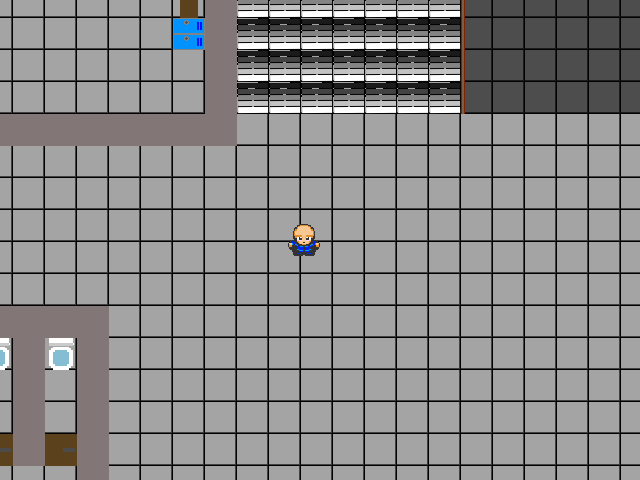
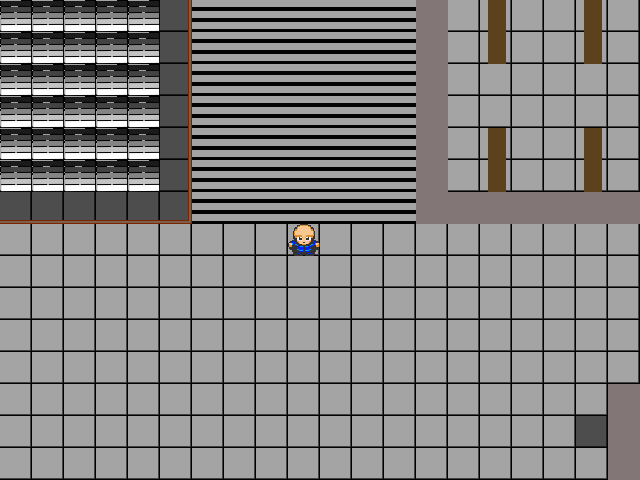
EduPage quest done
wowo iPhone

diff --git a/main.py b/main.py
@@ -45,6 +45,7 @@ class Game:
         self.saved_room_data: str = "017"
         self.quest = Quest(self)
         self.grades: dict[str, int] = {}
+        self.endings: List[str] = []
         
         # Settings
         self.music_on: bool = True
@@ -59,6 +60,10 @@ class Game:
 
         # Npc list
         self.npc = []
+
+        # Sounds
+        self.wow_iphone = pygame.mixer.Sound("sounds/wow_iphone.mp3")
+        # self.theme = pygame.mixer.Sound("sounds/theme.mp3")
         
     def set_level_camera(self, level: List[str]):
         """
@@ -111,7 +116,7 @@ class Game:
         self.interactive = {}
 
         # Inventory
-        self.inv: dict[str, str] = {"light": "img/vtipnicek_small.png", "changing_room key": "img/vtipnicek_small.png"}
+        self.inv: dict[str, str] = {}
 
         # Variables for endings
         self.without_light: int = 0
@@ -126,6 +131,8 @@ class Game:
         self.dumbbell_lifted: bool = True
         self.program_test: bool = True
         self.kul_quest: bool = True
+        self.phone_in_trash: bool = True
+        self.suplovanie: bool = True
         self.locker_stuff: dict[str, bool] = {"crocs": True, "boots": False, "key": True}
 
     def create_tile_map(self):
@@ -216,6 +223,7 @@ class Game:
             # Variables for endings
             self.without_light = data["quests"]["without_light"]
             self.caught = data["quests"]["caught"]
+            self.endings = data["endings"]
 
             # Variables for finding items/doing stuff
             self.key_in_trash = data["quests"]["key_in_trash"]
@@ -227,6 +235,8 @@ class Game:
             self.dumbbell_lifted = data["quests"]["dumbbells"]
             self.program_test = data["quests"]["program"]
             self.kul_quest = data["quests"]['KUL_quest']
+            self.suplovanie = data["quests"]['suplovanie']
+            self.phone_in_trash = data["quests"]["phone"]
             
             # Grades
             self.grades = data['grades']
@@ -393,8 +403,6 @@ class Game:
 
         while open_inventory:
 
-            
-
             # Background
             self.screen.blit(bg, (0, 0))
 
@@ -449,9 +457,10 @@ class Game:
         
         match img:
             
-            case "img/locker key.png": self.info("A key from my locker. It's 10th from the door.", BLACK) # Locker key
-            case "img/changing_room key.png": self.info("This key is used for OUR changing room.", BLACK) # Changing room key
-            case "img/vtipnicek_small.png": self.info("I can read you.", BLACK); self.open_vtipnicek() # Changing room key
+            case "img/locker key.png": self.info("A key from my locker. It's 10th from the door.", WHITE, 90) # Locker key
+            case "img/changing_room key.png": self.info("This key is used for OUR changing room.", WHITE, 90) # Changing room key
+            case "img/vtipnicek_small.png": self.info("I can read you.", WHITE, 90); self.open_vtipnicek() # Changing room key
+            case "img/Iphone_small.png": self.info("Let's check substitution", WHITE, 90); self.suplovanie = self.quest.check_suplovanie() # Changing room key
         
     def open_vtipnicek(self):
         """
@@ -504,14 +513,17 @@ class Game:
                         "dumbbells": self.dumbbell_lifted,
                         "program": self.program_test,
                         "KUL_quest": self.kul_quest,
+                        "phone": self.phone_in_trash,
+                        "suplovanie": self.suplovanie, 
                         "locker_stuff": self.locker_stuff, 
-                        "without_light": self.without_light, 
+                        "without_light": self.without_light,
                         "caught": self.caught
                         }
         
         # Saving
         self.database = SaveProgress(self.player_name, 
                                     self.inv,
+                                    self.endings,
                                     self.quests,
                                     self.rooms.index(self.in_room),
                                     self.saved_room_data,
@@ -545,7 +557,7 @@ class Game:
 
         # Creates button
         restart_button = Button(10, WIN_HEIGHT - 60, 200, 50, WHITE, DARK_GRAY, "Main menu", 32) if end else Button(10, WIN_HEIGHT - 60, 200, 50, WHITE, DARK_GRAY, "Try again", 32)
-        iamdone_button = Button(10, WIN_HEIGHT - 120, 200, 50, WHITE, DARK_GRAY, "I'm done", 32)
+        iamdone_button = Button(10, WIN_HEIGHT - 120, 200, 50, WHITE, DARK_GRAY, "Save & Quit", 32)
 
         if img == "img/window_fail.png": 
             car_oops = pygame.image.load("img/car_oops.png")
@@ -569,11 +581,12 @@ class Game:
 
             if restart_button.is_pressed(mouse_pos, mouse_pressed): 
                 if end: 
+                    self.endings.append(img)
                     self.reseting_game_values()
                     self.intro_screen().new("new").main()
                 else: self.new("old").main()
 
-            elif iamdone_button.is_pressed(mouse_pos, mouse_pressed): self.save_game()
+            elif iamdone_button.is_pressed(mouse_pos, mouse_pressed): self.endings.append(img); self.save_game()
             
             # Displaying background, text, button
             self.screen.blit(self.game_over_background, (0, 0))
@@ -891,7 +904,7 @@ class Game:
         self.update()
         self.draw()
 
-    def info(self, msg_content: str, color: tuple[int, int, int] = WHITE):
+    def info(self, msg_content: str, color: tuple[int, int, int] = WHITE, i: int = 10):
         """
         When character is talking but without the update and draw\n
         Good in some situations
@@ -899,7 +912,7 @@ class Game:
 
         for _ in range(self.talking_speed_number):
             text = self.font.render(msg_content, True, color)
-            text_rect = text.get_rect(x=10, y=10)
+            text_rect = text.get_rect(x=10, y=i)
             self.screen.blit(text, text_rect)
             self.clock.tick(FPS)
             pygame.display.update()
@@ -922,6 +935,20 @@ class Game:
 
             # Empty trashcan
             else: self.talking("There is nothing interesting.")
+
+        # 201 Trash can
+        elif self.interacted[1] == 24 and self.interacted[2] == 43: 
+
+            # Phone in trash
+            if self.phone_in_trash:
+                pygame.mixer.Sound.play(self.wow_iphone)
+                self.talking("Wow, Iphone")
+                self.inv['phone'] = "img/Iphone_small.png"
+                self.phone_in_trash = False
+                pygame.mixer.music.stop()
+
+            # Empty
+            else: self.talking("Just some rubbish.")
             
     def window(self):
         """
@@ -1417,7 +1444,7 @@ class Game:
                 
             elif self.interacted[2] == 57 and self.interacted[1] == 22:
                 self.__kul_counter += 1
-                if self.__kul_counter != 5:
+                if self.__kul_counter != 3:
                     self.talking("Mr. KUL, can I go home early?")
                     self.talking("You think I can manage that?", True)
                     self.talking("I was just thinking...")

diff --git a/quest.py b/quest.py
@@ -98,7 +98,7 @@ class Quest:
             active_tuple = False
 
             # Color
-            color = DIM_GRAY
+            color = GRAY
 
             # To fill
             fill_def = pygame.Rect(91, 90, 24, 13)
@@ -205,14 +205,79 @@ class Quest:
                 # Updates
                 self.game.clock.tick(FPS)
                 pygame.display.update()
-    
-    
-    # def function_to_bully_people(self):
-    #     """
-    #     This function needs your powers to fix it.
-    #     It's part of a class.
-    #     """
+                
+    def check_suplovanie(self):
+        """
+        Player checks for the substitution, very yes
+        """
 
-    #     add_even_to_list = [item for item in range(11) if item % 2 == 0]
-    #     tuple_of_previous = tuple(add_even_to_list)
-    #     return (item + 1 for item in tuple_of_previous)
+        checking = True
+
+        # Screen of the game
+        bg = pygame.image.load("img/screen.png")
+
+        # Phone
+        iphone = pygame.image.load("img/mobile.png")
+
+        # Screens
+        first_screen = pygame.image.load("img/screenshot_first.png")
+        first_rect = first_screen.get_rect(x=WIN_WIDTH // 2 - first_screen.get_width() // 2, y=WIN_HEIGHT // 2 - first_screen.get_height() // 2)
+        second_screen = pygame.image.load("img/screenshot_second.png")
+        second_rect = second_screen.get_rect(x=WIN_WIDTH // 2 - first_screen.get_width() // 2, y=WIN_HEIGHT // 2 - second_screen.get_height() // 2)
+
+        # Button
+        back_button = Button(500, 400, 120, 50, fg=WHITE, bg=BLACK, content="Back", fontsize=32)
+
+        # "Button"
+        empty_rect = pygame.Rect(192, 319, 129, 23)
+        back_rect = pygame.Rect(300, 420, 37, 29)
+
+        main_app = True
+        sub = False
+
+        while checking:
+            
+            # Position and click of the mouse
+            mouse_pos = pygame.mouse.get_pos()
+            mouse_pressed = pygame.mouse.get_pressed()
+            
+            # Events
+            for event in pygame.event.get():
+
+                # Close button
+                if event.type == pygame.QUIT: self.game.exiting()
+
+                # Keyboard
+                elif event.type == pygame.KEYDOWN:
+
+                    # Esc
+                    if event.key == pygame.K_ESCAPE: checking = False
+
+                # Mouse
+                elif event.type == pygame.MOUSEBUTTONDOWN:
+
+                    # Sub
+                    if empty_rect.collidepoint(event.pos): main_app = not main_app; sub = not sub
+
+                    # Back
+                    elif back_rect.collidepoint(event.pos): checking = False; return False
+
+            # Background
+            self.game.screen.blit(bg, (0, 0))
+                                                            
+            self.game.screen.blit(iphone, (WIN_WIDTH // 2 - iphone.get_width() // 2, WIN_HEIGHT // 2 - iphone.get_height() // 2))
+            
+            if main_app: 
+                self.game.screen.blit(first_screen, first_rect)
+                pygame.draw.rect(self.game.screen, NAVY, empty_rect, 1)
+            elif sub: 
+                pygame.draw.rect(self.game.screen, BLACK, back_rect)
+                self.game.screen.blit(second_screen, second_rect)
+
+            # Back button
+            if back_button.is_pressed(mouse_pos, mouse_pressed): checking = False
+            self.game.screen.blit(back_button.image, back_button.rect)            
+
+            # Updates
+            self.game.clock.tick(FPS)
+            pygame.display.update()

diff --git a/config.py b/config.py
@@ -30,6 +30,7 @@ BLUE: tuple =           (  0,   0, 255)
 GRAY: tuple =           ( 64,  64,  64)
 DIM_GRAY: tuple =       (105, 105, 105)
 DARK_GRAY: tuple =      ( 32,  32,  32)
+NAVY: tuple =           ( 11,  19,  30)
 
 # Floors
 GROUND_FLOOR = 0
@@ -158,7 +159,7 @@ second_floor: List[str] = [
     "w..........W.............W..................WZZZZZZZŔzzzzzzzW..................W.................W................W..................W.........W................W.....W......WWWWWWWWWWWWWWWWWWWW",
     "WWWWWWWWDWWW.............W..................WZZZZZZZŔzzzzzzzW..................W.................W................W..................W.........W................WWWWWWW..............sssssssssssW",
     "W..........W..l..l..l....W.l..l..l..l..l....WZZZZZZZŔzzzzzzzW.l..l..l..l..l....W..l..l..l..l.....W................W..l..l..l..l......W.........W.l..l..l..l.....W.....W..............sssssssssssW",
-    "Wjjj.......W..l..l..l....W.l..l..l..l..l....WZZZZZZZŔzzzzzzzW.l..l..l..l..l...tW..l..l..l..l....tW...............tW..l..l..l..l.....tW.........W.l..l..l..l.....W.... W.............PsssssssssssW",
+    "Wjjj.......W..l..l..l....W.l..l..l..l..l...tWZZZZZZZŔzzzzzzzW.l..l..l..l..l...tW..l..l..l..l....tW...............tW..l..l..l..l.....tW.........W.l..l..l..l.....W.... W.............PsssssssssssW",
     "W..........WWWWWWWWWWWWDWWWWWWWWWWWWWWWWWWDWWŘŘŘŘŘŘŘŕzzzzzzzWWWWWWWWWWWWWWWWDWWWWWWWWWWWWWWWWDWWWWwwwwwwwwwwGGwwwwWWWWWWWWWWWWWWDWWWWWWWWWDWWWWWWWWWWWWWWWWWWDWWWWWWWWWt.............sssssssssssW",
     "W..........W.........................................................................................................................................................................RRRRRRRRRRRW",
     "wjj.....jj.W.........................................................................................................................................................................SSSSSSSSSSSw",

diff --git a/save_progress.py b/save_progress.py
@@ -8,6 +8,7 @@ class UserAlreadyExistsError(Exception): pass
 class SaveProgress(UserAlreadyExistsError):
     name: str
     inventory: dict[str]
+    endings: List[str] 
     quests: List[str]
     level: List[str]
     room_number: str
@@ -42,7 +43,7 @@ class SaveProgress(UserAlreadyExistsError):
         # Data from file
         loaded_data: List = json.load(open(SaveProgress.file_dest))
         # New data
-        write_data = {"name": self.name, "inventory": self.inventory, "quests": self.quests, "level": self.level, "room_number": self.room_number, "grades": self.grades, "settings": self.settings}
+        write_data = {"name": self.name, "inventory": self.inventory, "endings": self.endings, "quests": self.quests, "level": self.level, "room_number": self.room_number, "grades": self.grades, "settings": self.settings}
 
         has_profile = False
 

diff --git a/sprites.py b/sprites.py
@@ -695,7 +695,7 @@ class Interact(pygame.sprite.Sprite):
                 for j, _ in enumerate(row):
 
                     # Trashcan
-                    if self.interactive[hits[0]] == "t" + str(i) + str(j): self.game.interacted = ["Trashcan", i ,j]
+                    if self.interactive[hits[0]] == "t" + str(i) + str(j): self.game.interacted = ["Trashcan", i ,j]; print(j, i)
 
                     # Toilet
                     if self.interactive[hits[0]] in ("T" + str(i) + str(j), "Ť" + str(i) + str(j)): self.game.interacted = ["Toilet", i ,j]
